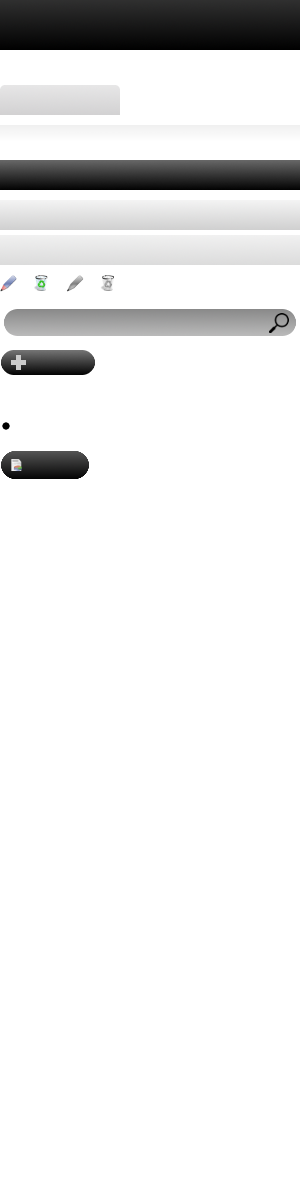
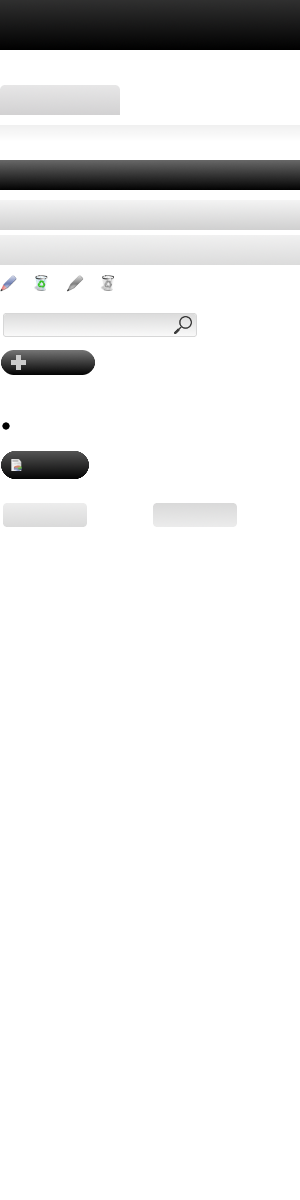
Its been a while

Changed region(s): [[0.0, 0.2467, 0.99, 0.3083], [0.0, 0.4008, 0.3, 0.4625], [0.51, 0.4008, 0.81, 0.4317]]

diff --git a/html/js/modules/technology.js b/html/js/modules/technology.js
@@ -4,6 +4,7 @@ core.register('technologyPanel', function(sandbox){
 			sandbox.item = {};
 			sandbox.form = '';
 			sandbox.items = [];
+			sandbox.count = 0;
 			sandbox.listen(['technology.refresh'], this.refresh);
 			sandbox.listen(['technology.browse'], this.browse);
 			sandbox.listen(['technology.add'], this.form);
@@ -18,7 +19,8 @@ core.register('technologyPanel', function(sandbox){
 		},
 		load: function(){
 			$.get('/technology/browse', function(response){
-				sandbox.items = response instanceof Array ? response : [];
+				sandbox.items = typeof response.rows == 'object' && response.rows instanceof Array ? response.rows : [];
+				sandbox.count = sandbox.rows.length ? Number(response.count) : 0;
 			});
 			$.get('/technology/form', function(response){
 				sandbox.form = typeof response === 'string' ? response : '';
@@ -26,7 +28,8 @@ core.register('technologyPanel', function(sandbox){
 		}(),
 		refresh: function(event){
 			$.get('/technology/browse', function(response){
-				sandbox.items = response instanceof Array ? response : [];
+				sandbox.items = typeof response.rows == 'object' && response.rows instanceof Array ? response.rows : [];
+				sandbox.count = sandbox.rows.length ? Number(response.count) : 0;
 				sandbox.notify('technology.browse');
 			});
 		},

diff --git a/html/themes/default/images/panel.css b/html/themes/default/images/panel.css
@@ -23,12 +23,14 @@ body {
 }
 
 .column {
+	overflow:hidden;
 	float: left;
 	display: inline-block;
 	margin: 0 1%;
 }
 
 .nomargin {
+	overflow:hidden;
 	float: left;
 	display: inline-block;
 }
@@ -157,19 +159,28 @@ body {
 }
 
 #navigation form input {
-	background: transparent;
+	float:right;
+	background: url(panel.png) 0 -309px scroll no-repeat;
+	margin: 12px 0 0;
+	height: 35px;
+	width:200px;
 	border: 0 none;
-	margin: 5px 0 0;
-	padding: 0 0 0 8px;
+	padding:0 0 0 8px;
 }
 
-#navigation form {
-	width: 300px;
-	background: url(panel.png) 0 -309px;
-	height: 35px;
-	display: inline-block;
-	float: right;
-	margin: 18px 0 0;
+#navigation .add {
+	font-size:.875em;
+	text-align:center;
+	width:90px;
+	padding:7px 0;
+	float:right;
+	margin:13px 12px 0 0;
+	background: url(panel.png) 0 -500px scroll no-repeat;
+	color:#000;
+}
+
+#navigation a.add:hover {
+	background: url(panel.png) -150px -500px scroll no-repeat;
 }
 
 #main {

diff --git a/html/js/sandbox.js b/html/js/sandbox.js
@@ -142,7 +142,7 @@ sandbox = function() {
 			return name + ' = "' + value + '"'
 		},
 		rows : function(data) {
-			var html = '<div class="list"><div class="add">ADD NEW</div><div class="heading"><span class="column grid_7">Title</span><span class="column grid_2">updated on</span><span class="column grid_1">actions</span></div>';
+			var html = '<div class="list"><div class="heading"><span class="column grid_7">Title</span><span class="column grid_2">updated on</span><span class="column grid_1">actions</span></div>';
 			var style = 'even';
 			for (i in data) {
 				var row = data[i];

diff --git a/apps/technology/view/browse.php b/apps/technology/view/browse.php
@@ -1,7 +1,7 @@
 <?php
 function browse($base){
 	header("Content-type: application/json");
-	print json_encode(database::json(database::read("technology", 0, 100)));
+	print json_encode(database::json(array('count' => database::count("technology"), 'rows' => database::browse("technology"))));
 	return true;
 }
 ?>
